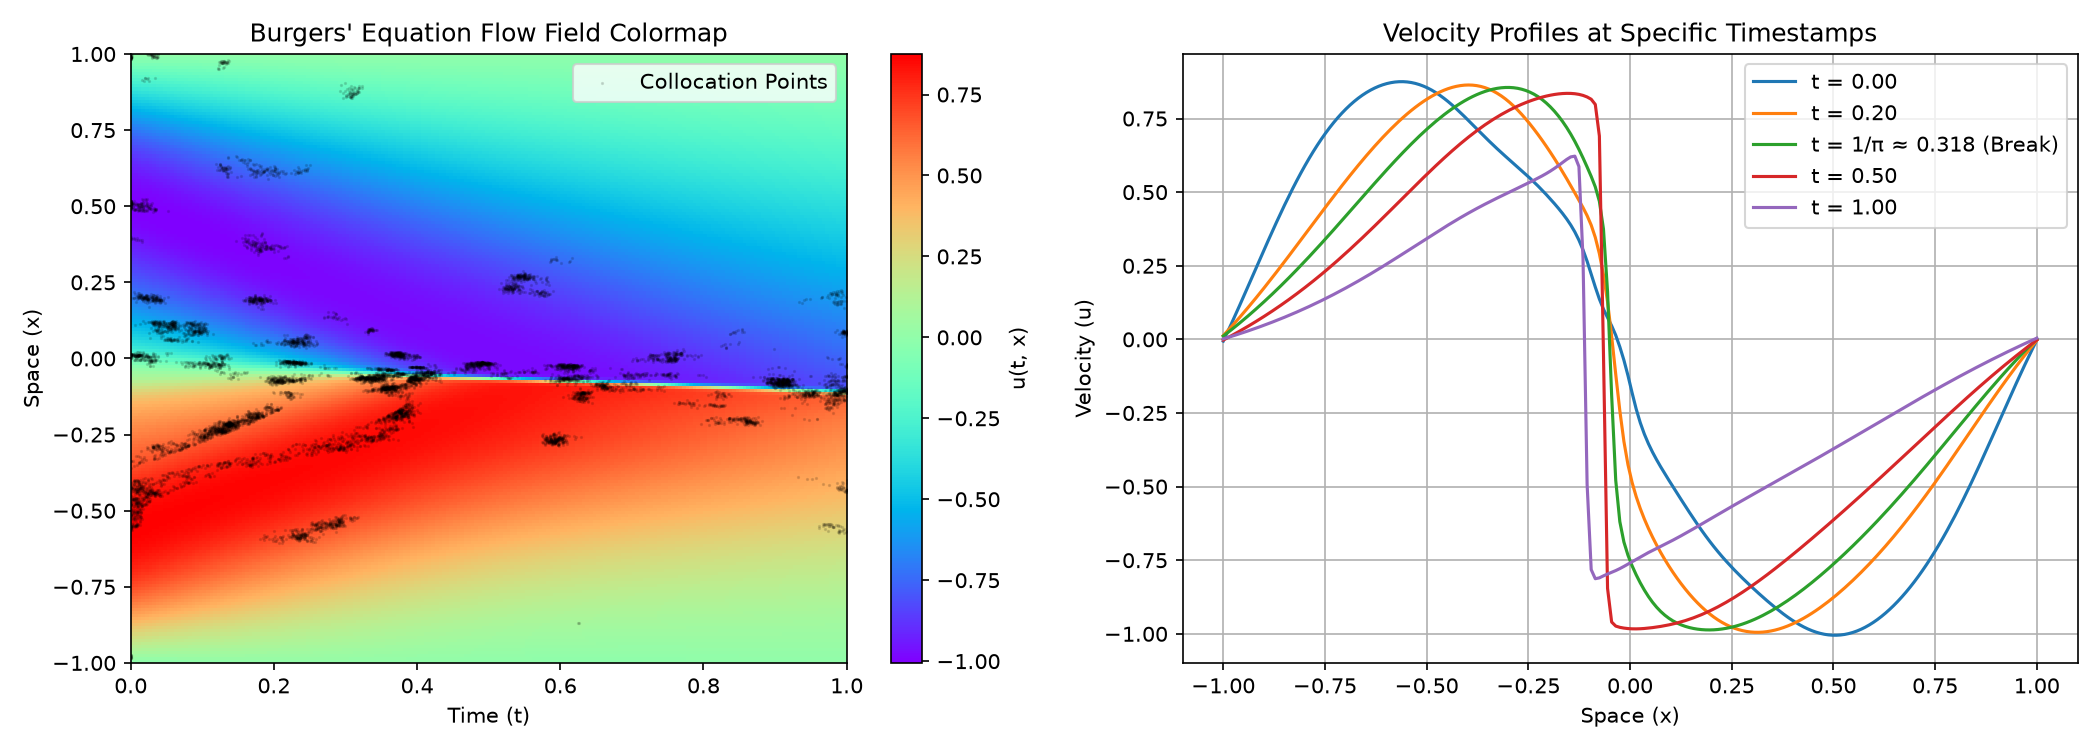
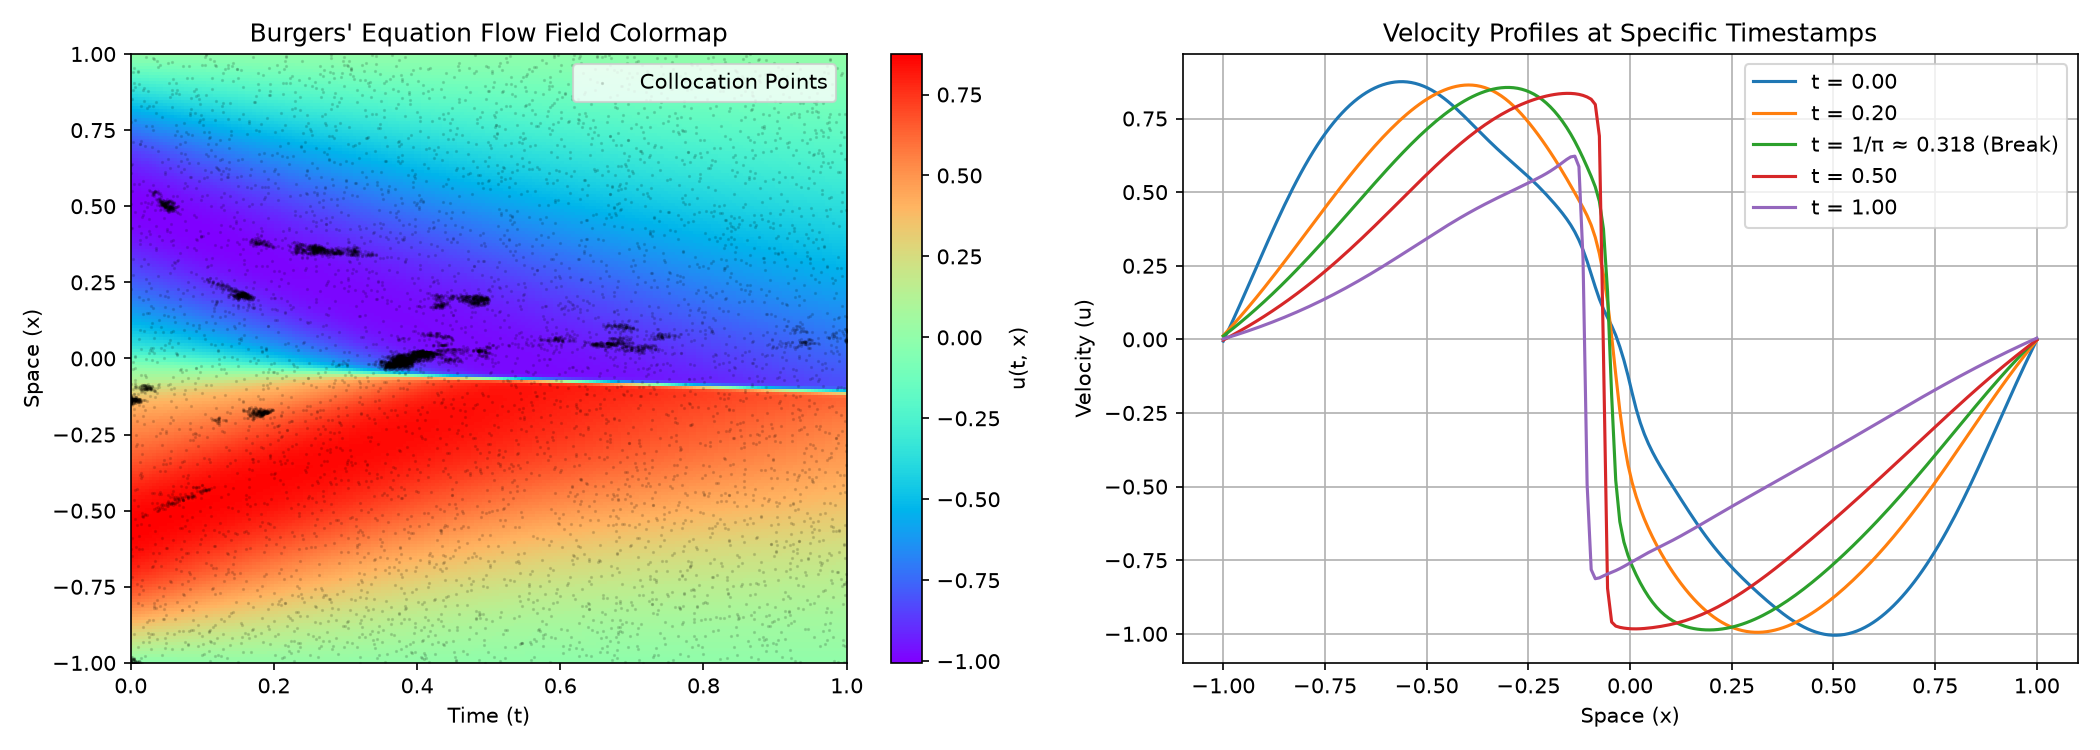
Implement Hybrid RAR mechanism to balance background constraints and dynamic shock refinement

diff --git a/train.py b/train.py
@@ -70,31 +70,30 @@ def save_collocation_history(points_history, path):
     jnp.savez(path, **points_history)
     print(f"Saved collocation history to {path}")
 
-def adaptive_resample(params, t_col, x_col, nu, key, top_k=2000, noise_std=0.005):
-    """自适应重采样机制 (RAR)：找出物理残差最大的 top_k 个点，并在其周围分裂繁衍"""
-    f_preds = residual_v(params, t_col, x_col, nu)
+def adaptive_resample(params, t_adapt, x_adapt, nu, key, top_k=1500, noise_std=0.005):
+    """自适应重采样机制 (RAR)：仅在自适应点集内部淘汰，找出残差最大的 top_k 个点在其周围分裂，并替换残差最小的点"""
+    f_preds = residual_v(params, t_adapt, x_adapt, nu)
     abs_residuals = jnp.abs(f_preds)
     
-    # 按照残差大小排序，提取 top_k 个困难点
+    # 按照残差大小排序，在自适应集内部提取 top_k 个困难点
     top_indices = jnp.argsort(abs_residuals)[-top_k:]
-    t_hard = t_col[top_indices]
-    x_hard = x_col[top_indices]
+    t_hard = t_adapt[top_indices]
+    x_hard = x_adapt[top_indices]
     
-    # 局部高斯扰动繁衍出新点
+    # 局部高斯扰动繁衍新点
     k1, k2 = jax.random.split(key)
     t_new = t_hard + jax.random.normal(k1, shape=t_hard.shape) * noise_std
     x_new = x_hard + jax.random.normal(k2, shape=x_hard.shape) * noise_std
     
-    # 用新点替换掉已学好（残差最小）的 top_k 个容易点，保证 Static Shapes
+    # 替换自适应集内部残差最小的 top_k 个点，以维持 Static Shapes
     bottom_indices = jnp.argsort(abs_residuals)[:top_k]
-    t_col = t_col.at[bottom_indices].set(t_new)
-    x_col = x_col.at[bottom_indices].set(x_new)
+    t_adapt = t_adapt.at[bottom_indices].set(t_new)
+    x_adapt = x_adapt.at[bottom_indices].set(x_new)
     
-    # 确保坐标不溢出 [0, 1]x[-1, 1]
-    t_col = jnp.clip(t_col, 0.0, 1.0)
-    x_col = jnp.clip(x_col, -1.0, 1.0)
+    t_adapt = jnp.clip(t_adapt, 0.0, 1.0)
+    x_adapt = jnp.clip(x_adapt, -1.0, 1.0)
     
-    return t_col, x_col
+    return t_adapt, x_adapt
 
 def main():
     # 命令行解析模式
@@ -128,10 +127,17 @@ def main():
     u_bc = jnp.zeros(N_bc)
 
     # 3. 物理控制共轭采样点 (训练采样)
-    N_col = 10000
-    k1, k2 = jax.random.split(key)
-    t_col = jax.random.uniform(k1, (N_col,), minval=0.0, maxval=1.0)
-    x_col = jax.random.uniform(k2, (N_col,), minval=-1.0, maxval=1.0)
+    # 我们采用混合自适应采样 (Hybrid RAR)：50% 固定背景点，50% 自适应追踪点
+    N_bg = 5000
+    N_adapt = 5000
+    
+    k1, k2, k3, k4 = jax.random.split(key, 4)
+    # 固定背景点 (整个训练过程中不变)
+    t_bg = jax.random.uniform(k1, (N_bg,), minval=0.0, maxval=1.0)
+    x_bg = jax.random.uniform(k2, (N_bg,), minval=-1.0, maxval=1.0)
+    # 自适应追踪点 (会动态重采样)
+    t_adapt = jax.random.uniform(k3, (N_adapt,), minval=0.0, maxval=1.0)
+    x_adapt = jax.random.uniform(k4, (N_adapt,), minval=-1.0, maxval=1.0)
 
     # 4. 固定的测试网格 (100x100 = 10000点，用于计算客观 Validation Loss)
     val_n = 100
@@ -146,10 +152,10 @@ def main():
     history_train_loss = []
     history_val_loss = []
 
-    # 记录点集时空演化历史 (仅用于 rar 模式)
+    # 记录点集时空演化历史 (合并背景和自适应点，仅用于 rar 模式)
     points_history = {
-        "t_step_0": t_col,
-        "x_step_0": x_col
+        "t_step_0": jnp.concatenate([t_bg, t_adapt]),
+        "x_step_0": jnp.concatenate([x_bg, x_adapt])
     }
 
     # 编译训练单步更新函数
@@ -164,6 +170,10 @@ def main():
 
     print(f"Starting training loop in '{mode}' mode...")
     for step in range(1, steps + 1):
+        # 合并背景点与自适应追踪点，保持总点数 10000 恒定
+        t_col = jnp.concatenate([t_bg, t_adapt])
+        x_col = jnp.concatenate([x_bg, x_adapt])
+
         params, opt_state, loss = train_step(params, opt_state, t_col, x_col)
         
         # 每 100 步记录一次全局物理残差与训练损失
@@ -179,18 +189,18 @@ def main():
             print(f"Step {step}/{steps} - Loss: {loss:.5e}")
             
             if mode == "rar":
-                # 自适应重采样
+                # 自适应重采样：仅在自适应组 N_adapt 内部进行淘汰替换
                 key, subkey = jax.random.split(key)
-                t_col, x_col = adaptive_resample(
-                    params, t_col, x_col, nu, subkey,
-                    top_k=2000,
+                t_adapt, x_adapt = adaptive_resample(
+                    params, t_adapt, x_adapt, nu, subkey,
+                    top_k=1500,  # 每次更新 5000 点中的 1500 点
                     noise_std=0.005
                 )
                 
-                # 每 3000 步记录历史坐标
+                # 每 3000 步记录合并后的完整坐标快照
                 if step % 3000 == 0:
-                    points_history[f"t_step_{step}"] = t_col
-                    points_history[f"x_step_{step}"] = x_col
+                    points_history[f"t_step_{step}"] = jnp.concatenate([t_bg, t_adapt])
+                    points_history[f"x_step_{step}"] = jnp.concatenate([x_bg, x_adapt])
 
     # 保存 Loss 收敛历史
     history_path = f"loss_history_{mode}.npz"